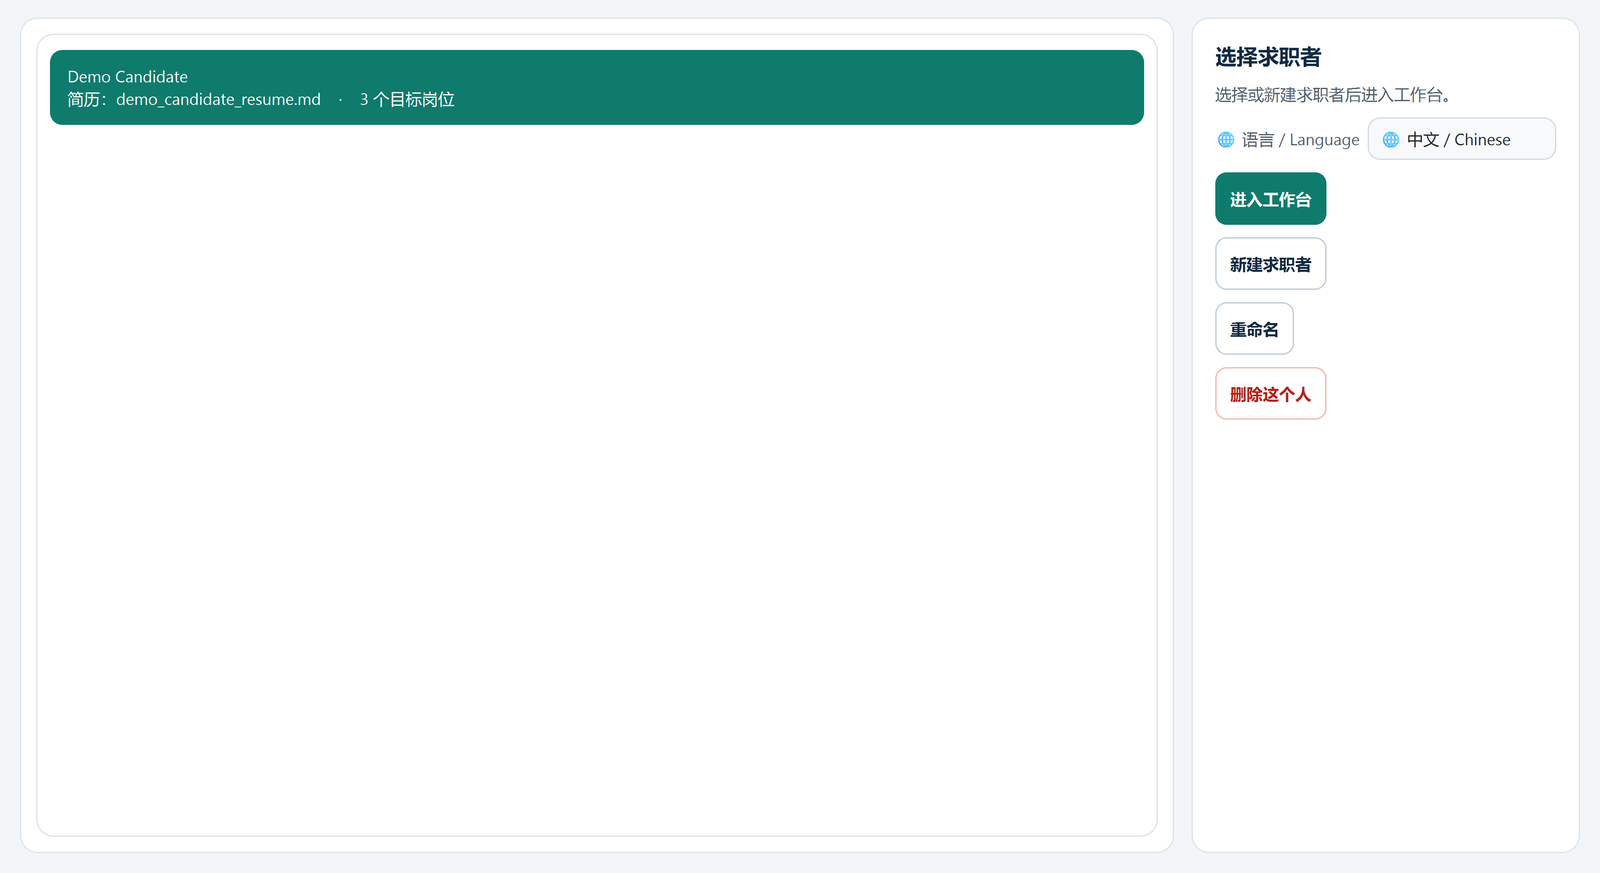
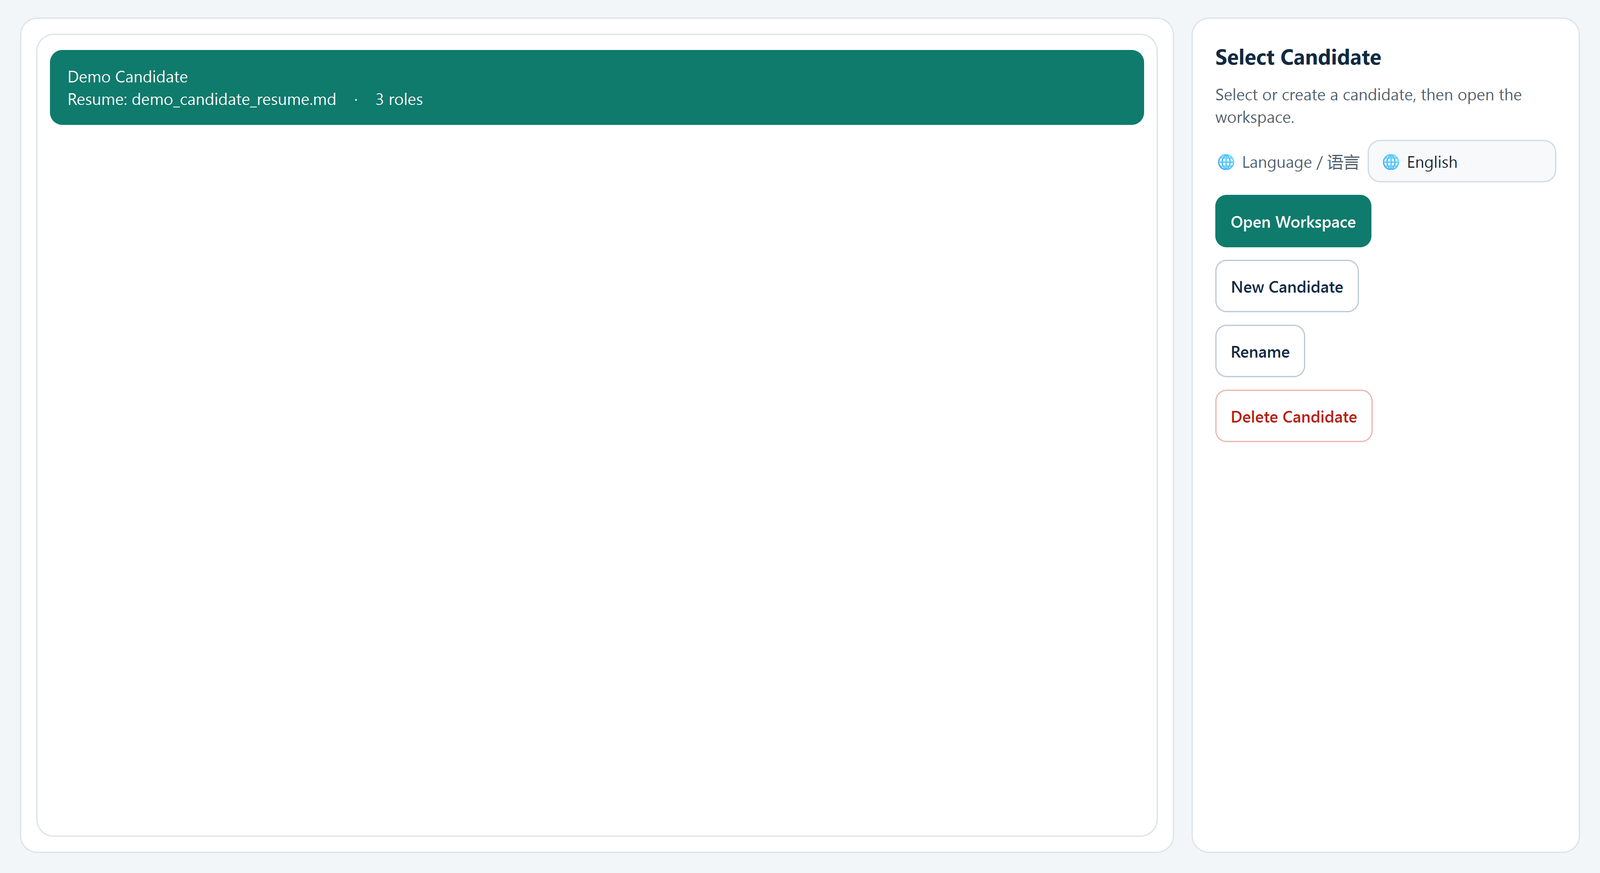
Use English README screenshots

Changed region(s): [[0.75, 0.0309, 0.9688, 0.4948], [0.0312, 0.0928, 0.2812, 0.1237]]

diff --git a/scripts/capture_readme_screenshots.py b/scripts/capture_readme_screenshots.py
@@ -207,7 +207,7 @@ def _build_window(app: QApplication, runtime_root: Path, *, width: int, height: 
     finally:
         bootstrap_module.build_app_paths = original_build_app_paths
 
-    context.settings.save_ui_language("zh")
+    context.settings.save_ui_language("en")
     icon = _resolve_app_icon(context)
     if icon is not None:
         app.setWindowIcon(icon)
